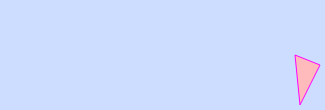
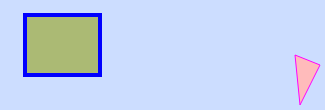
introduce class Rect < Shape

Changed region(s): [[0.0615, 0.1091, 0.3385, 0.7091]]

diff --git a/lib/ritaa/image.rb b/lib/ritaa/image.rb
@@ -18,7 +18,7 @@ module Ritaa
         .to_shapes
         .each { |shape| add_shape(shape) }
       @properties = {}
-      @styles = { line: {}, polygon: {}, polyline: {}, path: {} }
+      @styles = { line: {}, polygon: {}, polyline: {}, path: {}, rect: {} }
       @drop_shadow_styles = {} # id => Hash
       parse_shapes_and_styles(shapes_and_styles)
     end
@@ -78,7 +78,7 @@ module Ritaa
             end
             @styles["#" + id] ||= {}
             @styles["#" + id].merge!(h_style)
-          when /^(line|polyline|polygon|path) (.*)/
+          when /^(line|polyline|polygon|path|rect) (.*)/
             klass = Object.const_get("Ritaa").const_get($1.capitalize)
             add_shape(klass.new(JSON.parse($2, symbolize_names: true)))
           when /^image (.*)/
@@ -91,7 +91,7 @@ module Ritaa
               "margin-top": margin
               ) if margin
             @properties.merge!(h)
-          when /^(line|polyline|polygon|path)s (.*)/
+          when /^(line|polyline|polygon|path|rect)s (.*)/
             h = JSON.parse($2, symbolize_names: true)
             @styles[$1.to_sym].merge!(h)
           when /^drop-shadow (.*)/

diff --git a/lib/ritaa/shape/rect.rb b/lib/ritaa/shape/rect.rb
@@ -1,0 +1,37 @@
+module Ritaa
+  class Rect < Shape
+    def initialize(arg = nil)
+      @properties, @top_left, @bottom_right =
+        case arg
+          when Hash
+            x = arg.delete(:x)
+            y = arg.delete(:y)
+            width = arg.delete(:width)
+            height = arg.delete(:height)
+            [arg, AsciiDiagram::Point.new(x, y), AsciiDiagram::Point.new(x + width, y + height)]
+        end
+    end
+
+    def max_x; Image::Point.new(@bottom_right).x; end
+    def max_y; Image::Point.new(@bottom_right).y; end
+
+    def to_elements
+      e = REXML::Element.new("rect")
+      x, y = Image::Point.new(@top_left).to_a
+      x2, y2 = Image::Point.new(@bottom_right).to_a
+      e.attributes["x"], e.attributes["y"] = x, y
+      e.attributes["width"], e.attributes["height"] = x2 - x, y2 - y
+      styles = []
+      @properties.each do |k, v|
+        case k
+        when :id, :z
+          e.attributes[k.to_s] = @properties[k].to_s
+        else
+          styles << "%s: %s" % [k, v]
+        end
+      end
+      e.attributes["style"] = styles.join("; ") unless styles.empty?
+      [e]
+    end
+  end
+end

diff --git a/lib/ritaa.rb b/lib/ritaa.rb
@@ -8,6 +8,7 @@ require_relative 'ritaa/shape/line'
 require_relative 'ritaa/shape/path'
 require_relative 'ritaa/shape/polygon'
 require_relative 'ritaa/shape/polyline'
+require_relative 'ritaa/shape/rect'
 
 require_relative 'ritaa/graph/graph'
 require_relative 'ritaa/graph/directed_graph'
